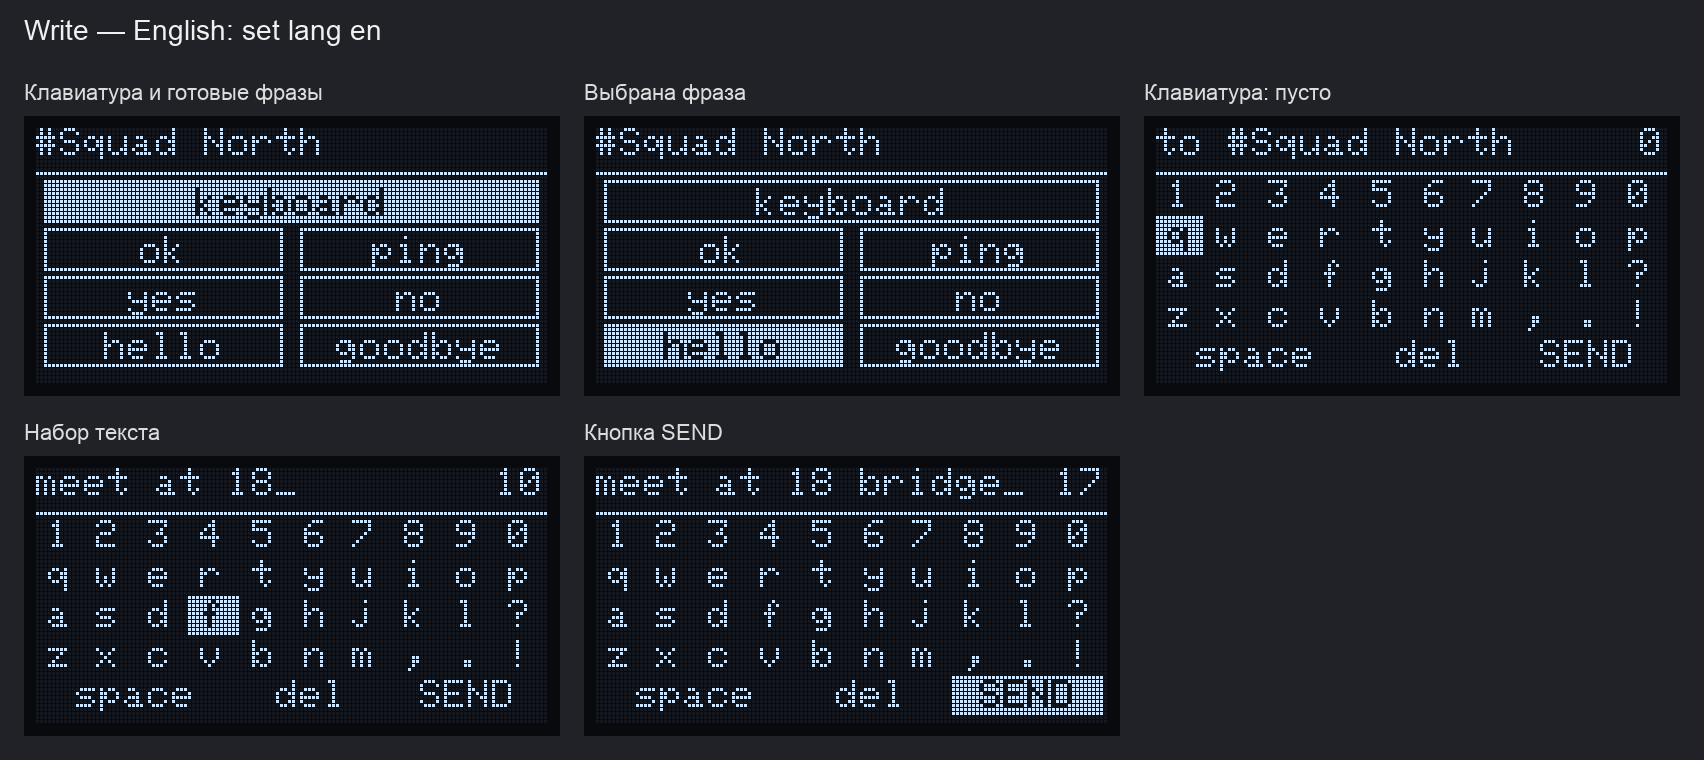
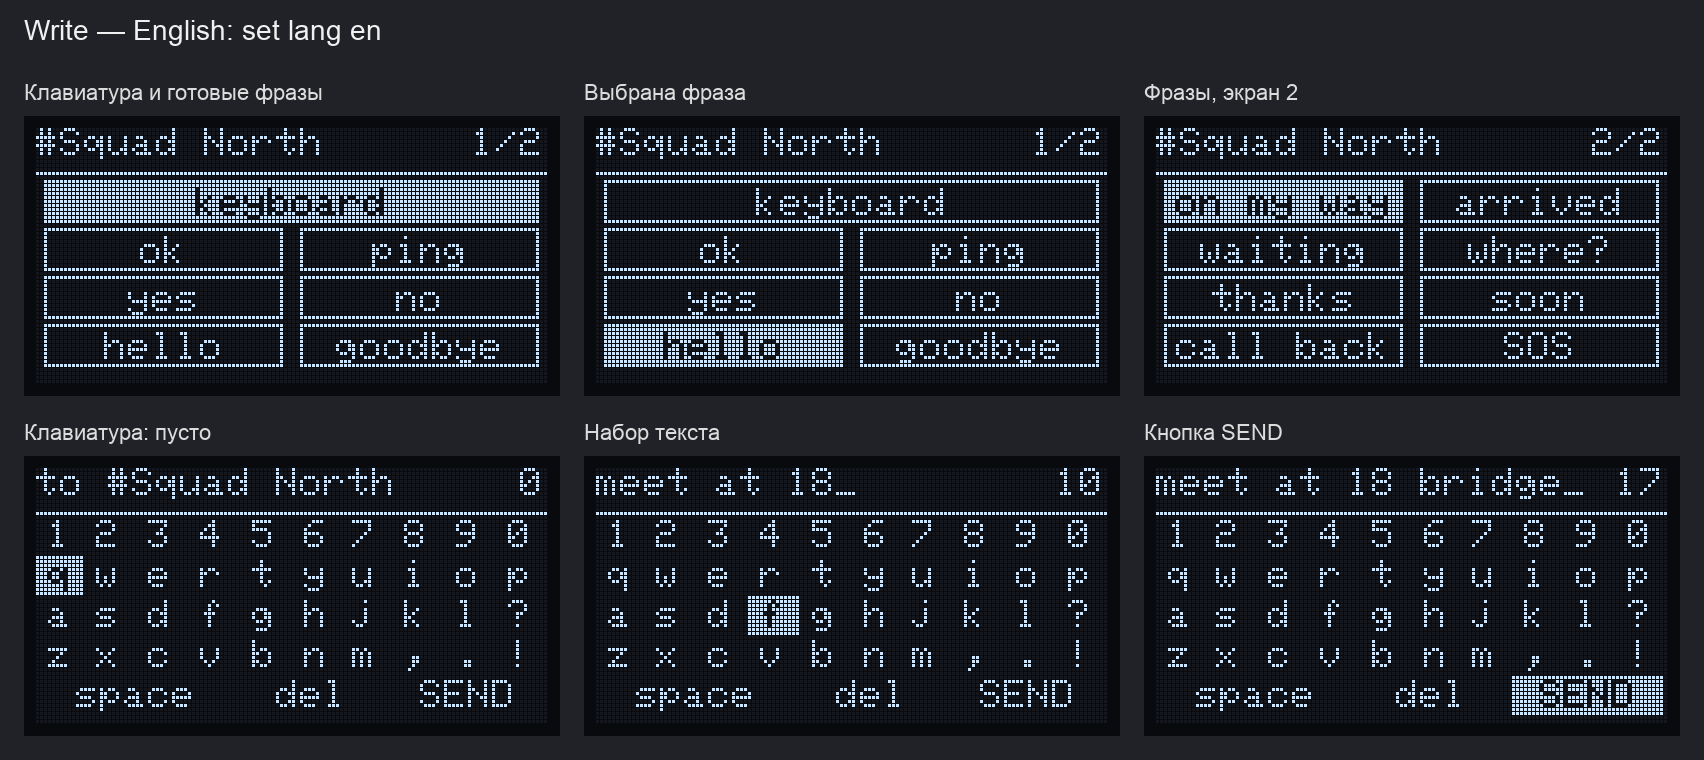
Второй экран фраз, число соседей в заголовке, прочтение только по кнопке.
- Write: 14 фраз на двух экранах, фокус после последней фразы первого экрана уходит на второй; номер экрана в заголовке.
- Neighbors: в заголовке «Ник [N] стр/всего», список листается целыми экранами раз в 3 с.
- Телефон, забравший сообщение, и бегущая строка больше не отмечают его прочитанным на устройстве; окно сообщения не закрывается.

diff --git a/examples/companion_radio/ui-new/UITask.cpp b/examples/companion_radio/ui-new/UITask.cpp
@@ -30,7 +30,7 @@
 #ifndef UI_RECENT_LIST_SIZE
   #define UI_RECENT_LIST_SIZE 4
 #endif
-#define NEIGHBOR_SCROLL_MS  2000
+#define NEIGHBOR_SCROLL_MS  3000   // one page of neighbours stays this long
 
 #define SCAN_SAMPLE_MILLIS    50   // noise scan RSSI sampling, independent of the frame rate
 #ifndef SCAN_REFRESH_MILLIS
@@ -247,7 +247,11 @@ class HomeScreen : public UIScreen {
   bool _shutdown_init;
   AdvertPath recent[UI_RECENT_LIST_SIZE];
   NeighborInfo neighbor_list[NEIGHBOR_TABLE_SIZE];
-  int neighbors_scroll_offset = 0;
+  int neighbors_scroll_offset = 0;   // page of the neighbour list on screen
+  static int neighborsPerPage(DisplayDriver& display) {
+    int per = (display.height() - 20) / 11;
+    return per < 1 ? 1 : per;
+  }
   unsigned long neighbors_next_scroll = 0;
   int16_t scan_peak;
   int16_t scan_live = -127;
@@ -527,8 +531,30 @@ public:
     display.setColor(UIColor::title_txt);
     char filtered_name[sizeof(_node_prefs->node_name)];
     display.translateUTF8ToBlocks(filtered_name, _node_prefs->node_name, sizeof(filtered_name));
-    display.setCursor(0, 2);
-    display.print(filtered_name);
+    if (_page == HomePage::NEIGHBORS) {
+      // "Name [7] 1/2": neighbours in total and the page on screen when they do not fit
+      int n = the_mesh.getNeighbors(neighbor_list, NEIGHBOR_TABLE_SIZE);
+      int per = neighborsPerPage(display);
+      int pages = (n + per - 1) / per;
+      if (neighbors_scroll_offset >= pages) neighbors_scroll_offset = 0;
+      if (pages > 1 && neighbors_next_scroll != 0 && (long)(millis() - neighbors_next_scroll) >= 0) {
+        neighbors_scroll_offset = (neighbors_scroll_offset + 1) % pages;   // next page of neighbours
+        neighbors_next_scroll = millis() + NEIGHBOR_SCROLL_MS;
+      }
+      if (pages > 1) sprintf(tmp, " [%d] %d/%d", n, neighbors_scroll_offset + 1, pages);
+      else sprintf(tmp, " [%d]", n);
+      int room = display.width() - 24 - 5 - 3 - display.getTextWidth(tmp);   // up to the battery icon
+#ifdef PIN_BUZZER
+      if (_task->isBuzzerQuiet()) room -= 9;
+#endif
+      display.drawTextEllipsized(0, 2, room, filtered_name);
+      int name_w = display.getTextWidth(filtered_name);
+      display.setCursor(name_w < room ? name_w : room, 2);
+      display.print(tmp);
+    } else {
+      display.setCursor(0, 2);
+      display.print(filtered_name);
+    }
 
     // battery voltage
     renderBatteryIndicator(display, _task->getBattMilliVolts());
@@ -689,24 +715,23 @@ public:
       } else {
         const int line_h = 11;
         const int y0 = 20;
-        int visible = (display.height() - y0) / line_h;
-        if (visible < 1) visible = 1;
-        if (n <= visible) {
+        int visible = neighborsPerPage(display);
+        int pages = (n + visible - 1) / visible;
+        // the header (drawn above) already shows this page; the next page comes after the next frame
+        if (pages <= 1) {
           neighbors_scroll_offset = 0;
           neighbors_next_scroll = 0;
         } else {
-          if (neighbors_scroll_offset >= n) neighbors_scroll_offset = 0;
+          if (neighbors_scroll_offset >= pages) neighbors_scroll_offset = 0;
           if (neighbors_next_scroll == 0) {
-            neighbors_next_scroll = millis() + NEIGHBOR_SCROLL_MS;
-          } else if ((long)(millis() - neighbors_next_scroll) >= 0) {
-            neighbors_scroll_offset = (neighbors_scroll_offset + 1) % n;
             neighbors_next_scroll = millis() + NEIGHBOR_SCROLL_MS;
           }
         }
 
-        int rows = n < visible ? n : visible;
+        int first = neighbors_scroll_offset * visible;
+        int rows = n - first < visible ? n - first : visible;
         for (int i = 0; i < rows; i++) {
-          auto a = &neighbor_list[(neighbors_scroll_offset + i) % n];
+          auto a = &neighbor_list[first + i];
           int y = y0 + i * line_h;
           float snr = a->snr_x4 / 4.0f;
           sprintf(tmp, "%+.0f", snr);
@@ -2005,11 +2030,11 @@ int UITask::getDeviceStored() const {
 }
 
 void UITask::clearTakenMsg() {
+  // The phone took a message. The copy on this device stays unread until it is
+  // read or dismissed with the button: neither the phone nor the running line
+  // marks it read here.
   if (!msg_preview) return;
-  bool empty = ((MsgPreviewScreen *) msg_preview)->dropOldest();
-  if (empty && curr == msg_preview) {
-    gotoHomeScreen();
-  } else if (curr == msg_preview || curr == clock || curr == home) {
+  if (curr == msg_preview || curr == clock || curr == home) {
     _next_refresh = 100;
   }
 }
@@ -2018,7 +2043,8 @@ void UITask::msgRead(int msgcount) {
   _msgcount = msgcount;
   // The phone drains the offline queue as soon as a message arrives. That must
   // not dismiss the e-ink clock; the footer count already updated in newMsg.
-  if (msgcount == 0 && curr != clock && !inReader() && !inCompose()) {
+  // an open message window stays open: only button presses read it
+  if (msgcount == 0 && curr != clock && curr != msg_preview && !inReader() && !inCompose()) {
     gotoHomeScreen();
   } else if (curr == home) {
     _next_refresh = 100;

diff --git a/tools/screen_render/render_compose.py b/tools/screen_render/render_compose.py
@@ -27,11 +27,13 @@ PAGES = ["FIRST", "WRITE", "RECENT", "NEIGHBORS", "RADIO", "POWER", "SCAN", "FSC
 TARGETS = ["#public", "#Squad North", "@Alexey", "@Base Camp", "@Fox"]
 # Layouts follow `set lang ru|en` (ru is the default).
 LANG = {
-    "en": {"phrases": ["ok", "ping", "yes", "no", "hello", "goodbye"],
+    "en": {"phrases": ["ok", "ping", "yes", "no", "hello", "goodbye",
+                       "on my way", "arrived", "waiting", "where?", "thanks", "soon", "call back", "SOS"],
            "rows": ["1234567890", "qwertyuiop", "asdfghjkl?", "zxcvbnm,.!"],
            "actions": [(0, "space"), (4, "del"), (7, "SEND")],
            "keyboard": "keyboard"},
-    "ru": {"phrases": ["ок", "ping", "да", "нет", "привет", "пока"],
+    "ru": {"phrases": ["ок", "ping", "да", "нет", "привет", "пока",
+                       "в пути", "на месте", "жду", "где ты?", "спасибо", "скоро", "перезвоню", "SOS"],
            "rows": ["1234567890.,", "йцукенгшщзхъ", "фывапролджэ!", "ячсмитьбюё?:"],
            "actions": [(0, "space"), (5, "del"), (8, "SEND")],
            "keyboard": "клавиатура"},
@@ -91,14 +93,45 @@ def scr_pick(d, sel=1):
         d.setColor(WHITE)
 
 
+P1 = 6  # phrases on the first screen, next to the keyboard button
+
+
 def scr_phrases(d, lang="en", target="#Squad North", sel=0):
     L = LANG[lang]
-    title(d, target)
+    second = sel > P1
+    title(d, target, "2/2" if second else "1/2")
     w = d.width()
     half = w // 2
-    cell(d, 2, 15, w - 4, L["keyboard"], sel == 0, True)
-    for i, p in enumerate(L["phrases"]):
-        cell(d, (i % 2) * half + 2, 15 + (i // 2 + 1) * 12, half - 4, p, sel == i + 1, True)
+    ph = L["phrases"]
+    if not second:
+        cell(d, 2, 15, w - 4, L["keyboard"], sel == 0, True)
+        for i, p in enumerate(ph[:P1]):
+            cell(d, (i % 2) * half + 2, 15 + (i // 2 + 1) * 12, half - 4, p, sel == i + 1, True)
+    else:
+        for k, p in enumerate(ph[P1:]):
+            cell(d, (k % 2) * half + 2, 15 + (k // 2) * 12, half - 4, p, sel == P1 + k + 1, True)
+
+
+NEIGHBORS = [("Repeater South", 9.25), ("Hill-2", 4.75), ("A3F09C12", -3.25), ("Bridge", -8.75),
+             ("Tower East", -10.5), ("Base Camp", -12.0), ("Fox", -14.25)]
+
+
+def scr_neighbors(d, n=7, page=0):
+    """Neighbors page: "Name [7] 1/2" in the header, 4 neighbours per page."""
+    ro.home_header(d, "NEIGHBORS")
+    w = d.width()
+    per = (d.height() - 20) // 11
+    pages = (n + per - 1) // per
+    suffix = " [%d] %d/%d" % (n, page + 1, pages) if pages > 1 else " [%d]" % n
+    room = w - 24 - 5 - 3 - d.getTextWidth(suffix)
+    d.setColor(BLACK); d.fillRect(0, 0, w - 24 - 5 - 1, 12)
+    d.setColor(WHITE); d.setTextSize(1)
+    name = d.translate(ro.NODE_NAME, 32)
+    d.drawTextEllipsized(0, 2, room, name)
+    nw = d.getTextWidth(name)
+    d.setCursor(min(nw, room), 2); d.print(suffix)
+    rows = NEIGHBORS[page * per:min(n, (page + 1) * per)]
+    ro.name_list(d, [(nm, "%+.0f" % snr) for nm, snr in rows])
 
 
 def scr_keys(d, lang="en", target="#Squad North", text="", row=1, col=0):
@@ -162,12 +195,19 @@ WRITE_SCREENS = [
 LANG_SCREENS = [
     ("42_write_phrases", "Клавиатура и готовые фразы", lambda d, l: scr_phrases(d, l)),
     ("43_write_phrase_sel", "Выбрана фраза", lambda d, l: scr_phrases(d, l, sel=5)),
+    ("43b_write_phrases_2", "Фразы, экран 2", lambda d, l: scr_phrases(d, l, sel=7)),
     ("44_write_keys", "Клавиатура: пусто", lambda d, l: scr_keys(d, l)),
     ("45_write_typing", "Набор текста", lambda d, l: scr_keys(
         d, l, text={"en": "meet at 18", "ru": "у моста в 18"}[l], row=2, col=3)),
     ("46_write_send", "Кнопка SEND", lambda d, l: scr_keys(
         d, l, text={"en": "meet at 18 bridge", "ru": "у моста в 18:00"}[l], row=4,
         col={"en": 7, "ru": 8}[l])),
+]
+
+NEIGHBOR_SCREENS = [
+    ("60_neighbors_3", "3 соседа: всё на одном экране", lambda d: scr_neighbors(d, 3)),
+    ("61_neighbors_p1", "7 соседей: экран 1 из 2", lambda d: scr_neighbors(d, 7, 0)),
+    ("62_neighbors_p2", "7 соседей: экран 2 из 2", lambda d: scr_neighbors(d, 7, 1)),
 ]
 
 TICKER_SCREENS = [
@@ -304,6 +344,16 @@ def main():
             litems.append((label, im))
         sheet(litems, 3, "Write — " + titles[lang]).save(
             os.path.join(out, "gallery_write_%s.png" % lang))
+
+    nitems = []
+    os.makedirs(os.path.join(out, "neighbors"), exist_ok=True)
+    for fname, label, fn in NEIGHBOR_SCREENS:
+        d = Dev(); fn(d)
+        im = to_image(d)
+        im.save(os.path.join(out, "neighbors", fname + ".png"))
+        nitems.append((label, im))
+    sheet(nitems, 3, "Neighbors — число соседей и экран в заголовке").save(
+        os.path.join(out, "gallery_neighbors.png"))
 
     titems = []
     for fname, label, fn in TICKER_SCREENS:

diff --git a/examples/companion_radio/ui-new/ComposeScreen.h b/examples/companion_radio/ui-new/ComposeScreen.h
@@ -78,10 +78,19 @@ class ComposeScreen : public UIScreen {
     return 0;
   }
 
-  // stock phrases; "ping" stays in English in both languages
+  // stock phrases; "ping" stays in English in both languages.
+  // The first PHRASES_P1 share the screen with the keyboard button, the rest
+  // fill a second screen (4 rows of 2) that the focus moves to after the last one.
+  #define PHRASES_P1  6
   const char* const* phrases(int& n) const {
-    static const char* const en[] = { "ok", "ping", "yes", "no", "hello", "goodbye" };
-    static const char* const rus[] = { "ок", "ping", "да", "нет", "привет", "пока" };
+    static const char* const en[] = {
+      "ok", "ping", "yes", "no", "hello", "goodbye",
+      "on my way", "arrived", "waiting", "where?", "thanks", "soon", "call back", "SOS",
+    };
+    static const char* const rus[] = {
+      "ок", "ping", "да", "нет", "привет", "пока",
+      "в пути", "на месте", "жду", "где ты?", "спасибо", "скоро", "перезвоню", "SOS",
+    };
     n = sizeof(en) / sizeof(en[0]);
     return ru() ? rus : en;
   }
@@ -244,15 +253,26 @@ class ComposeScreen : public UIScreen {
     }
   }
 
-  // the keyboard entry on top (item 0), phrases below in two columns
+  // screen 1: the keyboard entry on top (item 0), phrases below in two columns;
+  // screen 2: the remaining phrases, 4 rows of 2. The title shows 1/2 or 2/2.
   void drawPhrases(DisplayDriver& display) {
-    drawTargetTitle(display);
     int np;
     const char* const* p = phrases(np);
+    bool second = _sel > PHRASES_P1;
+    char name[48];
+    targetName(_target, name, sizeof(name));
+    drawTitle(display, name, second ? "2/2" : "1/2");
     int half = display.width() / 2;
-    drawCell(display, 2, 15, display.width() - 4, ru() ? "клавиатура" : "keyboard", _sel == 0, true);
-    for (int i = 0; i < np; i++) {
-      drawCell(display, (i % 2) * half + 2, 15 + (i / 2 + 1) * 12, half - 4, p[i], _sel == i + 1, true);
+    if (!second) {
+      drawCell(display, 2, 15, display.width() - 4, ru() ? "клавиатура" : "keyboard", _sel == 0, true);
+      for (int i = 0; i < PHRASES_P1 && i < np; i++) {
+        drawCell(display, (i % 2) * half + 2, 15 + (i / 2 + 1) * 12, half - 4, p[i], _sel == i + 1, true);
+      }
+    } else {
+      for (int i = PHRASES_P1; i < np; i++) {
+        int k = i - PHRASES_P1;
+        drawCell(display, (k % 2) * half + 2, 15 + (k / 2) * 12, half - 4, p[i], _sel == i + 1, true);
+      }
     }
   }
 

diff --git a/README.md b/README.md
@@ -8,9 +8,11 @@
 |---|:---:|:---:|
 | Бегущая строка для входящих сообщений | — | ✅ включена сразу, выключается на устройстве, параметры задаются при сборке |
 | Написать и отправить сообщение без телефона | — | ✅ в канал или избранному контакту |
-| Готовые фразы | — | ✅ `ок`, `ping`, `да`, `нет`, `привет`, `пока` или `ok`, `ping`, `yes`, `no`, `hello`, `goodbye` |
+| Готовые фразы | — | ✅ 14 фраз на двух экранах, по-русски или по-английски |
 | Русская клавиатура | — | ✅ при `set lang ru` (по умолчанию), английская при `set lang en` |
 | Отметка «Delivered» для личных сообщений с устройства | — | ✅ |
+| Число соседей и номер экрана в заголовке страницы Neighbors | — | ✅ `Ник [7] 1/2` |
+| Сообщение прочитано на устройстве | когда телефон забрал его или по кнопке | только по кнопке |
 | Очередь сообщений для телефона | 256 сообщений | ≈500 в той же памяти (T114) |
 | Сборки | все платы, все роли | только companion BLE, USB и Wi‑Fi: T114, V3, V4 |
 
@@ -33,7 +35,9 @@
 1. Короткими нажатиями листайте страницы до **Msg scroll** — она предпоследняя, перед страницей выключения.
 2. Сделайте **долгое нажатие**. На экране появится `Msg scroll: OFF`.
 
-Новые сообщения после этого открываются сразу обычным окном. Включить снова — ещё одно долгое нажатие на той же странице (`Msg scroll: ON`). Выбор сохраняется после перезагрузки. Пока строка включена, каждое новое сообщение будит экран.
+Бегущая строка ничего не отмечает прочитанным: сообщение считается прочитанным только после нажатий в окне сообщения.
+
+Новые сообщения после выключения открываются сразу обычным окном. Включить снова — ещё одно долгое нажатие на той же странице (`Msg scroll: ON`). Выбор сохраняется после перезагрузки. Пока строка включена, каждое новое сообщение будит экран.
 
 <p align="center">
   <img src="docs/screens/ticker/50_ticker_on.png" alt="Msg scroll: ON" width="400">
@@ -78,10 +82,15 @@
 
 Раскладка и готовые фразы следуют языку устройства из прошивки TERMIN36. По умолчанию язык русский. Переключается командой в контакте **Console** приложения MeshCore (или в консоли по кабелю):
 
-- `set lang ru` — русская клавиатура (все 33 буквы, по 12 клавиш в ряду) и фразы `ок`, `ping`, `да`, `нет`, `привет`, `пока`;
-- `set lang en` — английская клавиатура и фразы `ok`, `ping`, `yes`, `no`, `hello`, `goodbye`.
+- `set lang ru` — русская клавиатура (все 33 буквы, по 12 клавиш в ряду) и русские фразы;
+- `set lang en` — английская клавиатура и английские фразы.
 
-Слово `ping` в обоих языках остаётся английским. Та же команда переключает день недели на главном экране.
+| Экран | `set lang ru` | `set lang en` |
+|---|---|---|
+| 1 (с кнопкой клавиатуры) | `ок`, `ping`, `да`, `нет`, `привет`, `пока` | `ok`, `ping`, `yes`, `no`, `hello`, `goodbye` |
+| 2 | `в пути`, `на месте`, `жду`, `где ты?`, `спасибо`, `скоро`, `перезвоню`, `SOS` | `on my way`, `arrived`, `waiting`, `where?`, `thanks`, `soon`, `call back`, `SOS` |
+
+Слова `ping` и `SOS` в обоих языках одинаковые. Та же команда переключает день недели на главном экране.
 
 <p align="center">
   <img src="docs/screens/gallery_write_ru.png" alt="Write на русском: клавиатура и фразы" width="900">
@@ -96,7 +105,7 @@
 1. Нажатиями дойдите до страницы **Write**: она сразу после главной.
 2. Долгое нажатие открывает список адресатов. Сначала каналы (`#public`, `#…`), затем избранные контакты (`@…`).
 3. Выберите адресата долгим нажатием.
-4. Выберите готовую фразу — она уходит сразу. Или откройте `клавиатура` (`keyboard`) и наберите свой текст.
+4. Выберите готовую фразу — она уходит сразу. Или откройте `клавиатура` (`keyboard`) и наберите свой текст. Фраз 14, они на двух экранах: после последней фразы первого экрана нажатие переводит фокус на второй, номер экрана (`1/2`, `2/2`) виден справа в заголовке.
 5. На клавиатуре выберите `SEND`.
 
 После отправки экран показывает результат:
@@ -136,6 +145,18 @@ set lang ru                    set lang en
 </p>
 
 Отправленные с устройства сообщения не попадают в историю чата в приложении на телефоне.
+
+## Neighbors: сколько соседей
+
+На странице **Neighbors** рядом с именем устройства в заголовке стоит число соседей в квадратных скобках: `MeshNode [3]`. Если все не помещаются на экран (на OLED — больше четырёх), через пробел показан номер экрана: `[7] 1/2`. Экраны сменяются сами раз в 3 секунды: сначала первые четыре соседа, потом следующие, затем снова с начала.
+
+<p align="center">
+  <img src="docs/screens/gallery_neighbors.png" alt="Neighbors: число соседей и номер экрана" width="900">
+</p>
+
+## Прочтение сообщений
+
+Сообщение на устройстве считается прочитанным только после нажатий в окне сообщения: одно нажатие — следующее, долгое — все прочитаны. Бегущая строка и телефон этого не делают. Если приложение MeshCore подключено и забрало сообщение, на устройстве оно остаётся непрочитанным, окно сообщения не закрывается.
 
 ## Сборки
 
